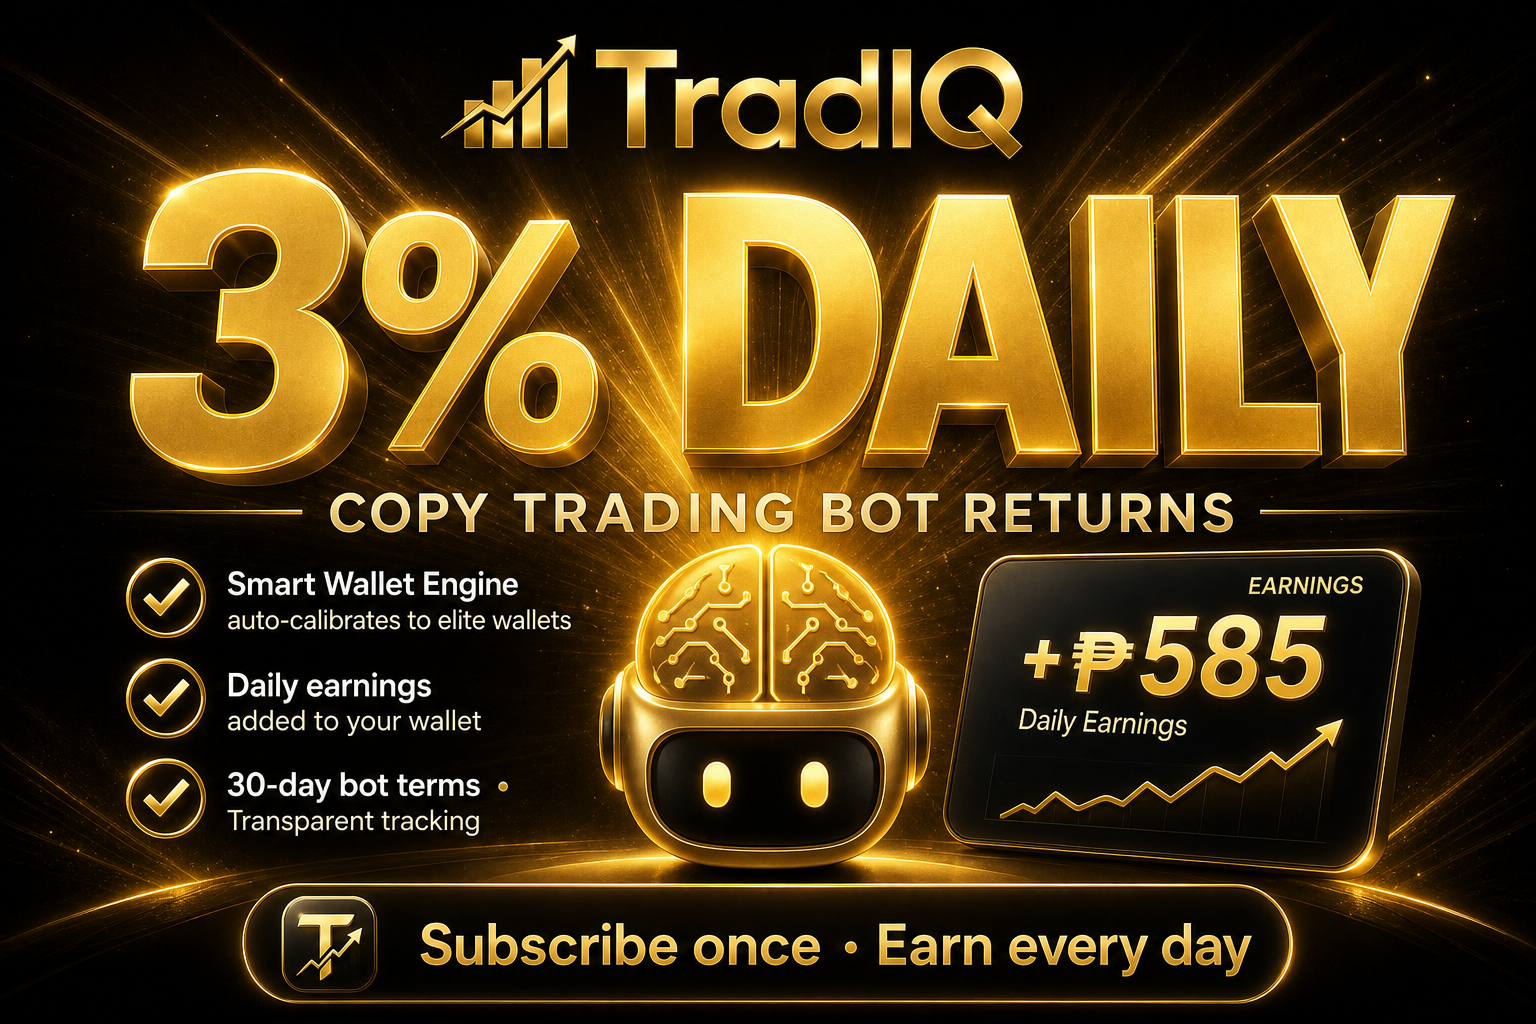
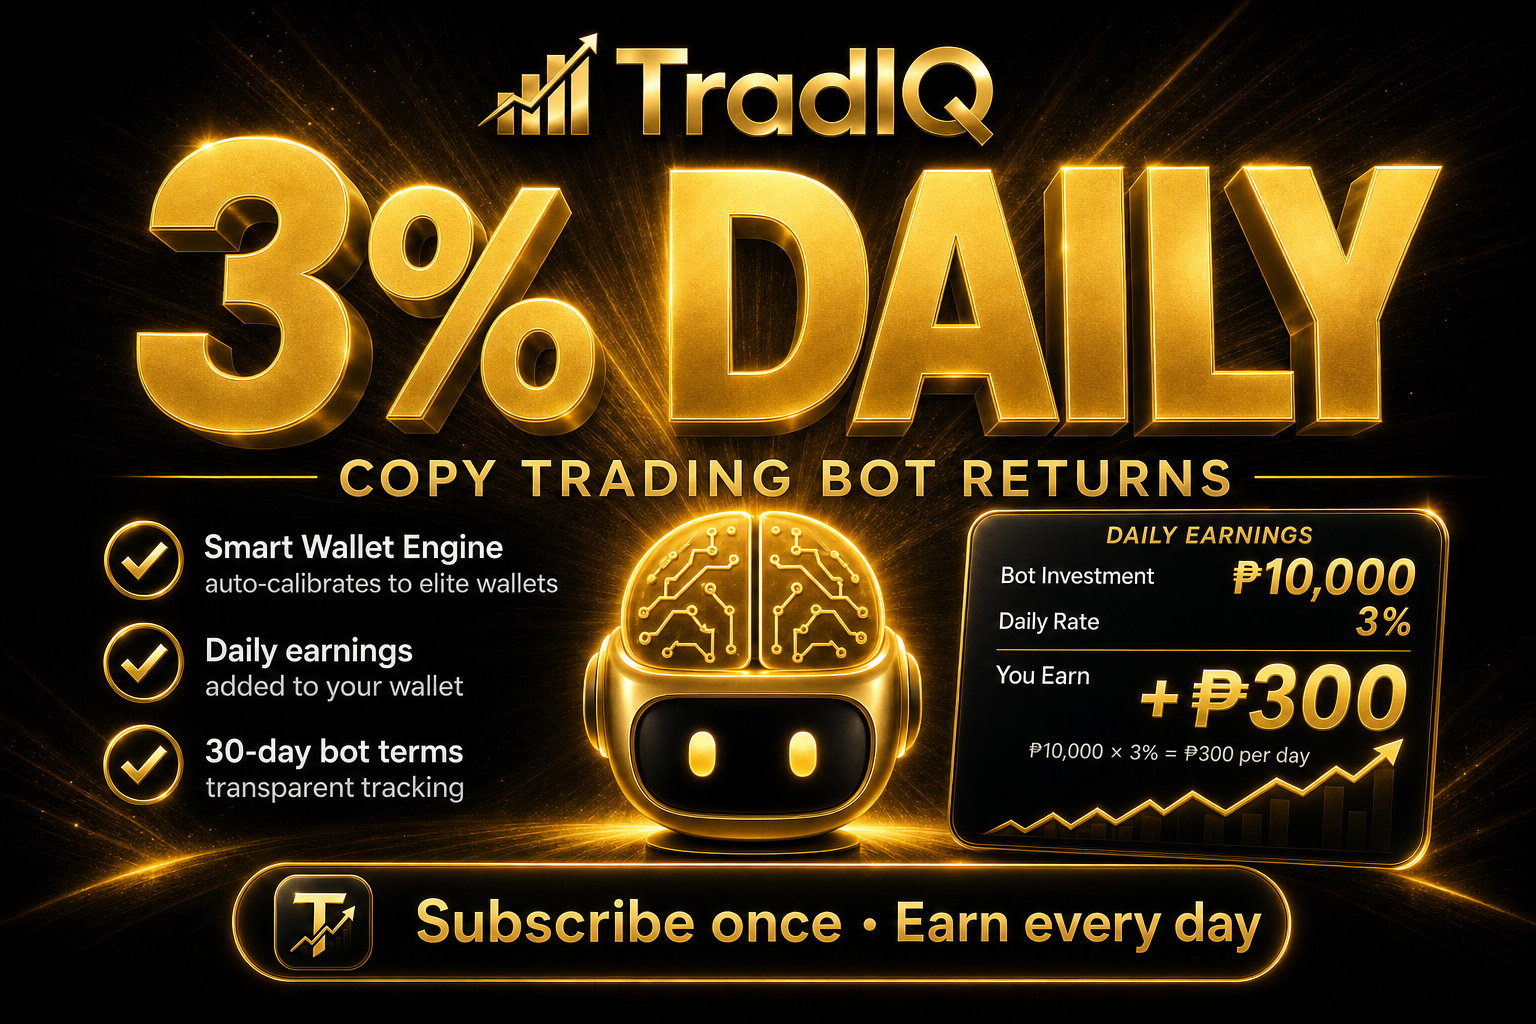
Update marketing materials images and descriptions
- Replaced the images for the referral commission and 3% daily returns marketing materials.
- Enhanced descriptions for both marketing materials to provide clearer examples of earnings and commission structures, improving user understanding.

diff --git a/src/lib/marketing-materials.ts b/src/lib/marketing-materials.ts
@@ -19,7 +19,7 @@ export const MARKETING_MATERIALS: MarketingMaterial[] = [
     id: "referral-commission",
     title: "Referral & Commission",
     description:
-      "5-level referral program — 15% / 3% / 2% / 1% / 1% commission tiers.",
+      "5-level commission tiers with earnings example — referral bot subscription × rate (e.g. ₱30,000 × 15% = ₱4,500).",
     filename: "tradiq-referral-commission.png",
     href: "/assets/marketing/referral-commission.png",
   },
@@ -27,7 +27,7 @@ export const MARKETING_MATERIALS: MarketingMaterial[] = [
     id: "3-percent-daily",
     title: "3% Daily Returns",
     description:
-      "Highlight daily bot earnings and Smart Wallet Engine performance.",
+      "Shows bot investment, 3% daily rate, and calculated daily earnings (e.g. ₱10,000 → +₱300/day).",
     filename: "tradiq-3-percent-daily.png",
     href: "/assets/marketing/3-percent-daily.png",
   },